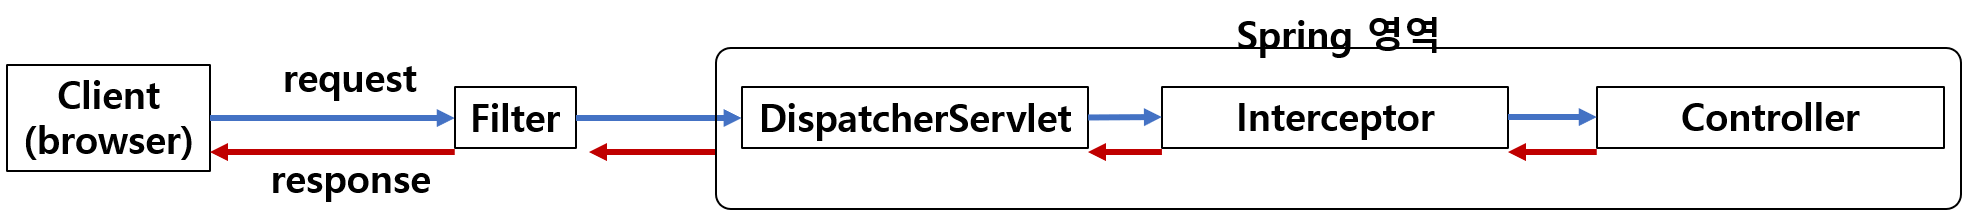
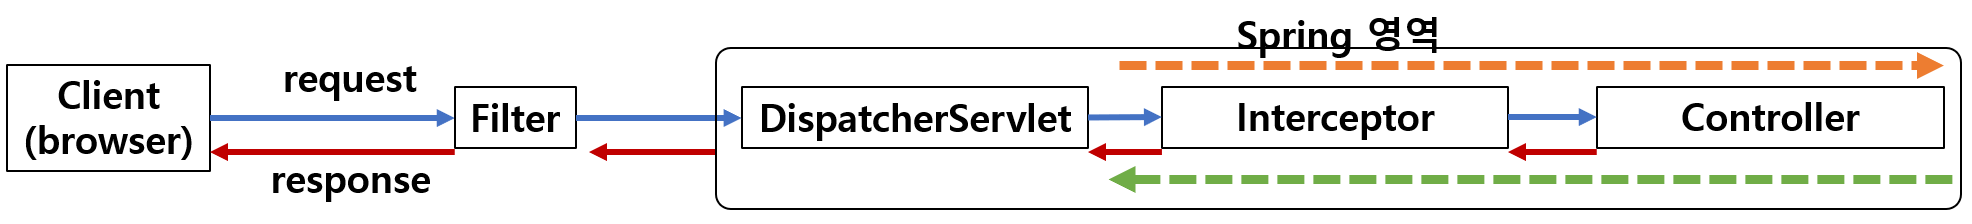
2020.10.26-spring-interceptor

diff --git a/2020/KH_Git_Repository/notes/Spring/Spring_notes3.md b/2020/KH_Git_Repository/notes/Spring/Spring_notes3.md
@@ -112,9 +112,9 @@ public class HomeController {
 
 ```xml
 <root>
-		<priority value="warn" />
-		<appender-ref ref="console" />
-	</root>
+	<priority value="warn" />
+	<appender-ref ref="console" />
+</root>
 ```
 
 <br>
@@ -126,7 +126,6 @@ public class HomeController {
   <param name="Target" value="System.out" />
 
   <layout class="org.apache.log4j.PatternLayout">
-
     <param name="ConversionPattern" value="%-5p: %c - %m%n" />
   </layout>
 </appender>
@@ -176,9 +175,7 @@ INFO : org.springframework.web.servlet.DispatcherServlet - Initializing Servlet 
 ```xml
 <appender name="console" class="org.apache.log4j.ConsoleAppender">
   <param name="Target" value="System.out" />
-
   <layout class="org.apache.log4j.PatternLayout">
-
     <param name="ConversionPattern" value="%-5p: %c - %m%n" />
   </layout>
 </appender>
@@ -265,6 +262,7 @@ INFO : org.springframework.web.servlet.DispatcherServlet - Initializing Servlet 
 
 <br><br>
 
+<hr>
 
 > ## Logger 실습하기 1 - 콘솔에 로그를 출력하기.
 
@@ -319,19 +317,21 @@ public class MemberController{
   @Autowired
   private BcryptPasswordEncoder bcryptPasswordEncoder;
 
+  // 1. LoggerFactory객체로부터 logger을 갖고온다.
   private Logger logger= LoggerFactory.getLogger(MemberController.class);
 
   //중략//
 
-	@RequestMapping("enrollView.me")
-	public String enrollView() {
-    
-		// 디버그 레벨인지 확인한다.
-		if(logger.isDebugEnabled()) {
-			logger.debug("회원 등록 페이지");
-		}
-		return "memberJoin";
-	}
+  @RequestMapping("enrollView.me")
+  public String enrollView() {
+
+  	// 디버그 레벨인지 확인한다.
+  	if(logger.isDebugEnabled()) {
+      //2. 디버그 레벨의 로그를 콘솔에 출력한다.
+  		logger.debug("회원 등록 페이지");
+  	}
+  	return "memberJoin";
+  }
 }
 ```
 
@@ -370,7 +370,7 @@ public class MemberController{
     - `%c` : com.kh.spring.member.controller.MemberController
     - `%c{1}` : MemberController
 
-  - **`%M`** => 로그가 발생한 메소드 이름을 출력
+  - **`%M`** : 로그가 발생한 메소드 이름을 출력
     - `%M` : enrollView
 
   - **`%L`** : caller의 라인수를 출력
@@ -414,6 +414,7 @@ public class MemberController{
 
 <br><br><br>
 
+<hr>
 
 > ## Logger 실습하기 2 - 파일에 로그를 저장하기
 
@@ -447,7 +448,7 @@ public class MemberController{
     if(isPwdCorrect) {
       model.addAttribute("loginUser", loginUser);
 
-      //2. 로그를 호출하여, info레벨부터 로그를 출력한다.
+      //2. 로그를 호출하여, info레벨부터 로그를 파일에 출력한다.
       // 이때 출력되는 로그는 로그인한 회원아이디이다.
       logger.info(loginUser.getId());
 
@@ -471,7 +472,7 @@ public class MemberController{
     <!--myConsole 이란 이름의 appender을 참조한다. -->
 		<appender-ref ref="myConsole"/>
 
-    <!--myDailyRollingFile 이란 이름의 appender을 참조한다. -->
+    <!--(logger등록) myDailyRollingFile 이란 이름의 appender을 참조한다. -->
 		<appender-ref ref="myDailyRollingFile"/>
 	</logger>
 ```
@@ -481,8 +482,10 @@ public class MemberController{
 - ### (3) (2)에서 등록한 logger을 참조하는 appender을 만듭니다!
 
 ```xml
+<!-- DailyRollingFileAppender은 파일에 로그기록을 출력하도록 하는 객체입니다.-->
 <appender name="myDailyRollingFile" class="org.apache.log4j.DailyRollingFileAppender">
 		<!--로그 파일 위치를 정한다. -->
+    <!--로그파일 login.log의 위치는: C드라이브의 logs/member에 있습니다.-->
 		<param name="File" value="/logs/member/login.log"/>
 		<param name="Append" value="true"/>
 
@@ -499,7 +502,7 @@ public class MemberController{
 
 <br><br>
 
-- ### (1), (2) 전체 코드
+- ### (2), (3) 전체 코드 - log4j.xml
 
 ```xml
 <!--appender -->
@@ -528,6 +531,36 @@ public class MemberController{
 </logger>
 ```
 
+<br>
+
+- ### login.log 파일
+
+![](./login_log.PNG)
+
 <br><br>
+
+- ### Controller을 기준으로, Interceptor과 AOP 과정을 포함한 요청처리과정
+
+
+![](./spring3_pattern01.png)
+
+<br>
+
+![](./spring3_pattern02.png)
+
+<br><br>
+
+- 컨트롤러(Controller)를 기준으로 보내는 값과 받는 값을 처리
+- 컨트롤러에 관한 요청이나 응답에 대한 처리가 필요한 경우에는 Interceptor을 이용한다.
+  - Interceptor은 DispatcherServlet에서 호출했느냐의 관점을 컨트롤러로 할 수 있다.
+
+  - Interceptor을 구성하는 3개의 메소드가 있다.
+    - 컨트롤러를 실행하기 전: **preHandler()**
+    - 컨트롤러를 실행한 후: **postHandler()**
+    - 모든 작업을 완료시킨 후: **afterCompletion()**
+
+<BR>
+
+<hr>
 
 > ## Interceptor을 이용하여 로그를 출력하자.
